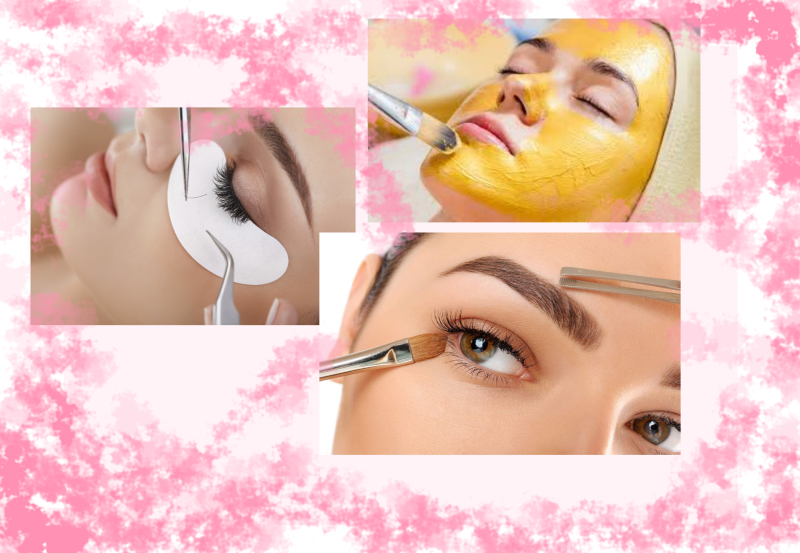
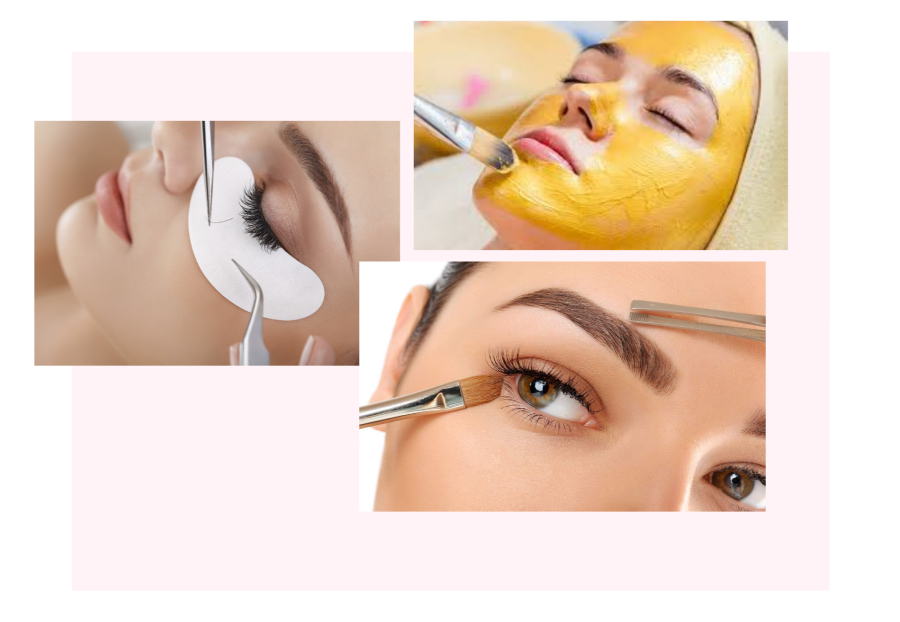
Alteração imagem
Alteração na imagemda página inicial

Changed region(s): [[0.0, 0.0, 1.0, 1.0], [0.0, 0.0, 0.6562, 0.4611], [0.0, 0.1537, 0.0625, 0.4611]]

diff --git a/primeiro-projeto/index.html b/primeiro-projeto/index.html
@@ -42,6 +42,11 @@
         </ul>
 
     </nav>
+    <p style= "font-family:'Courier New', Courier, monospace;">
+        <center>
+            <h2><i>Studio Beauty</i></h2>
+        </center>
+    </p>
     <center>
     <img src="home.png">
     </center>
